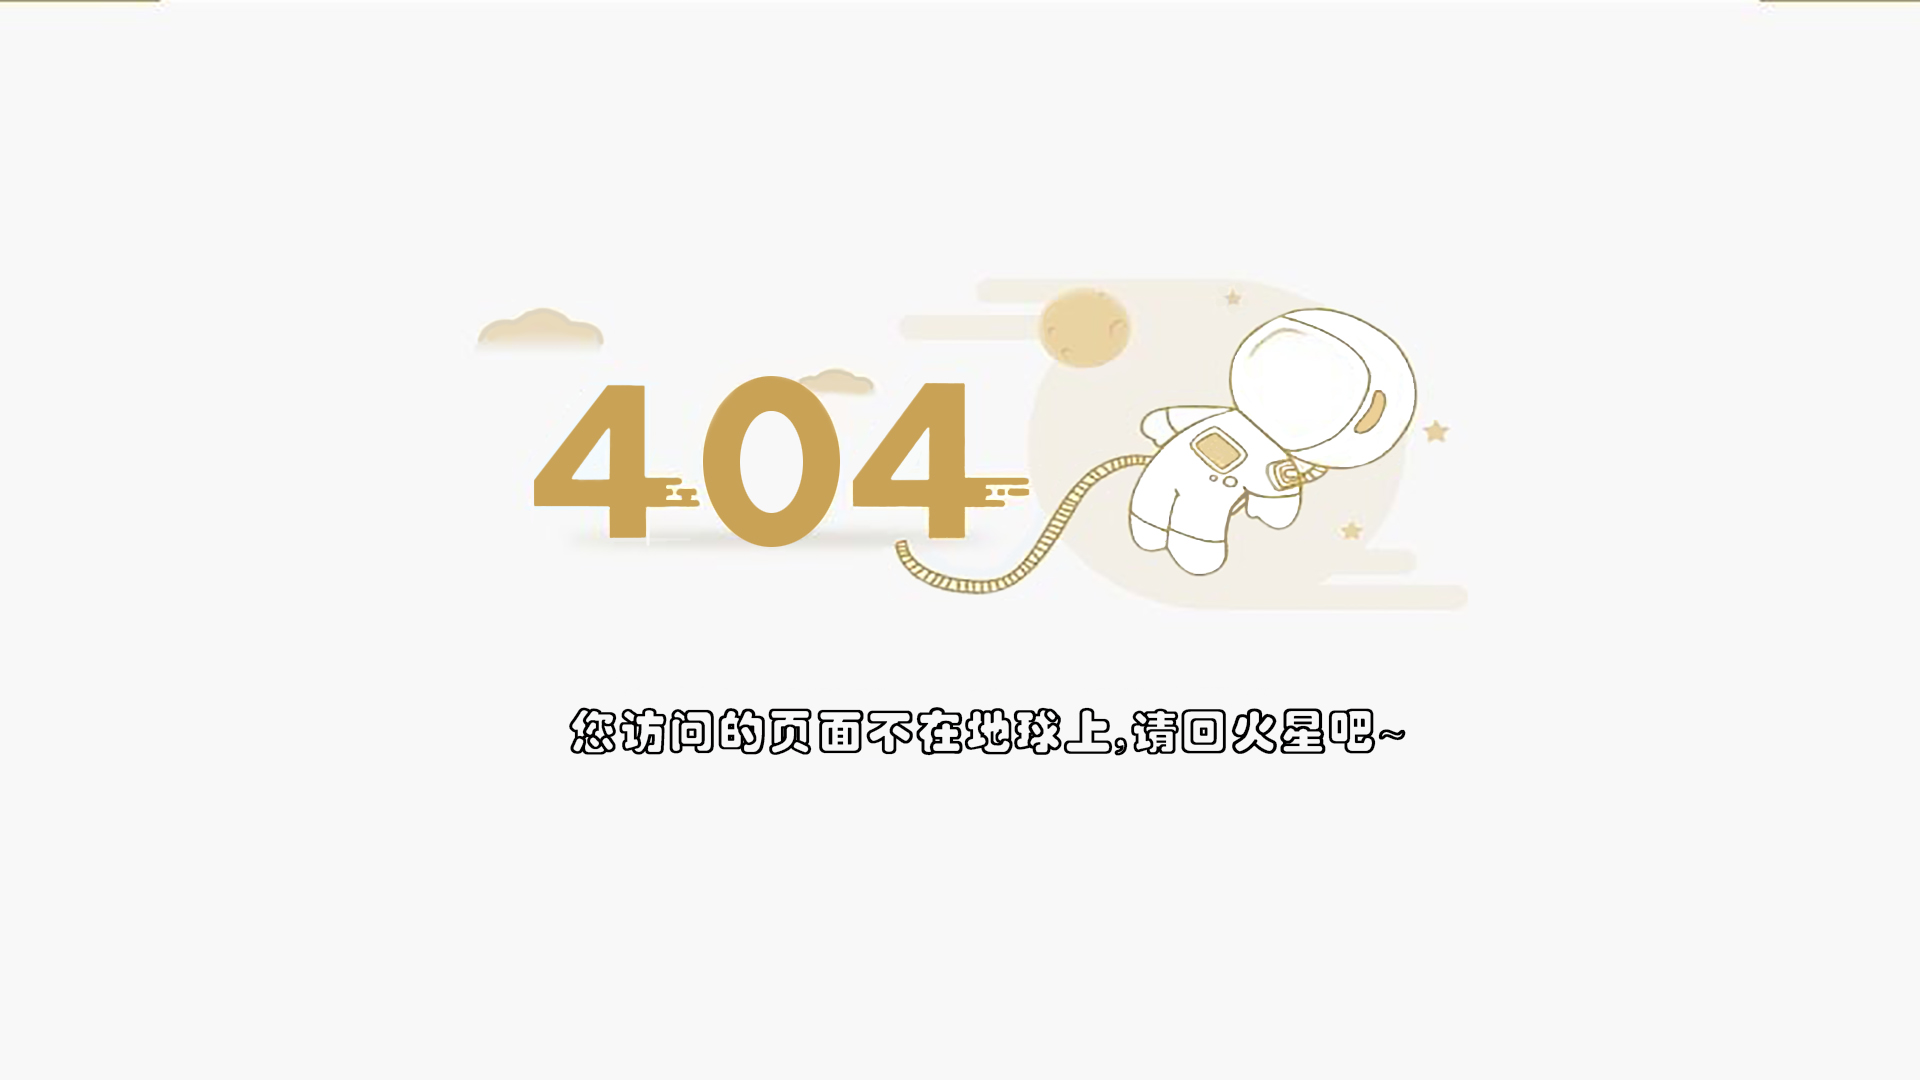
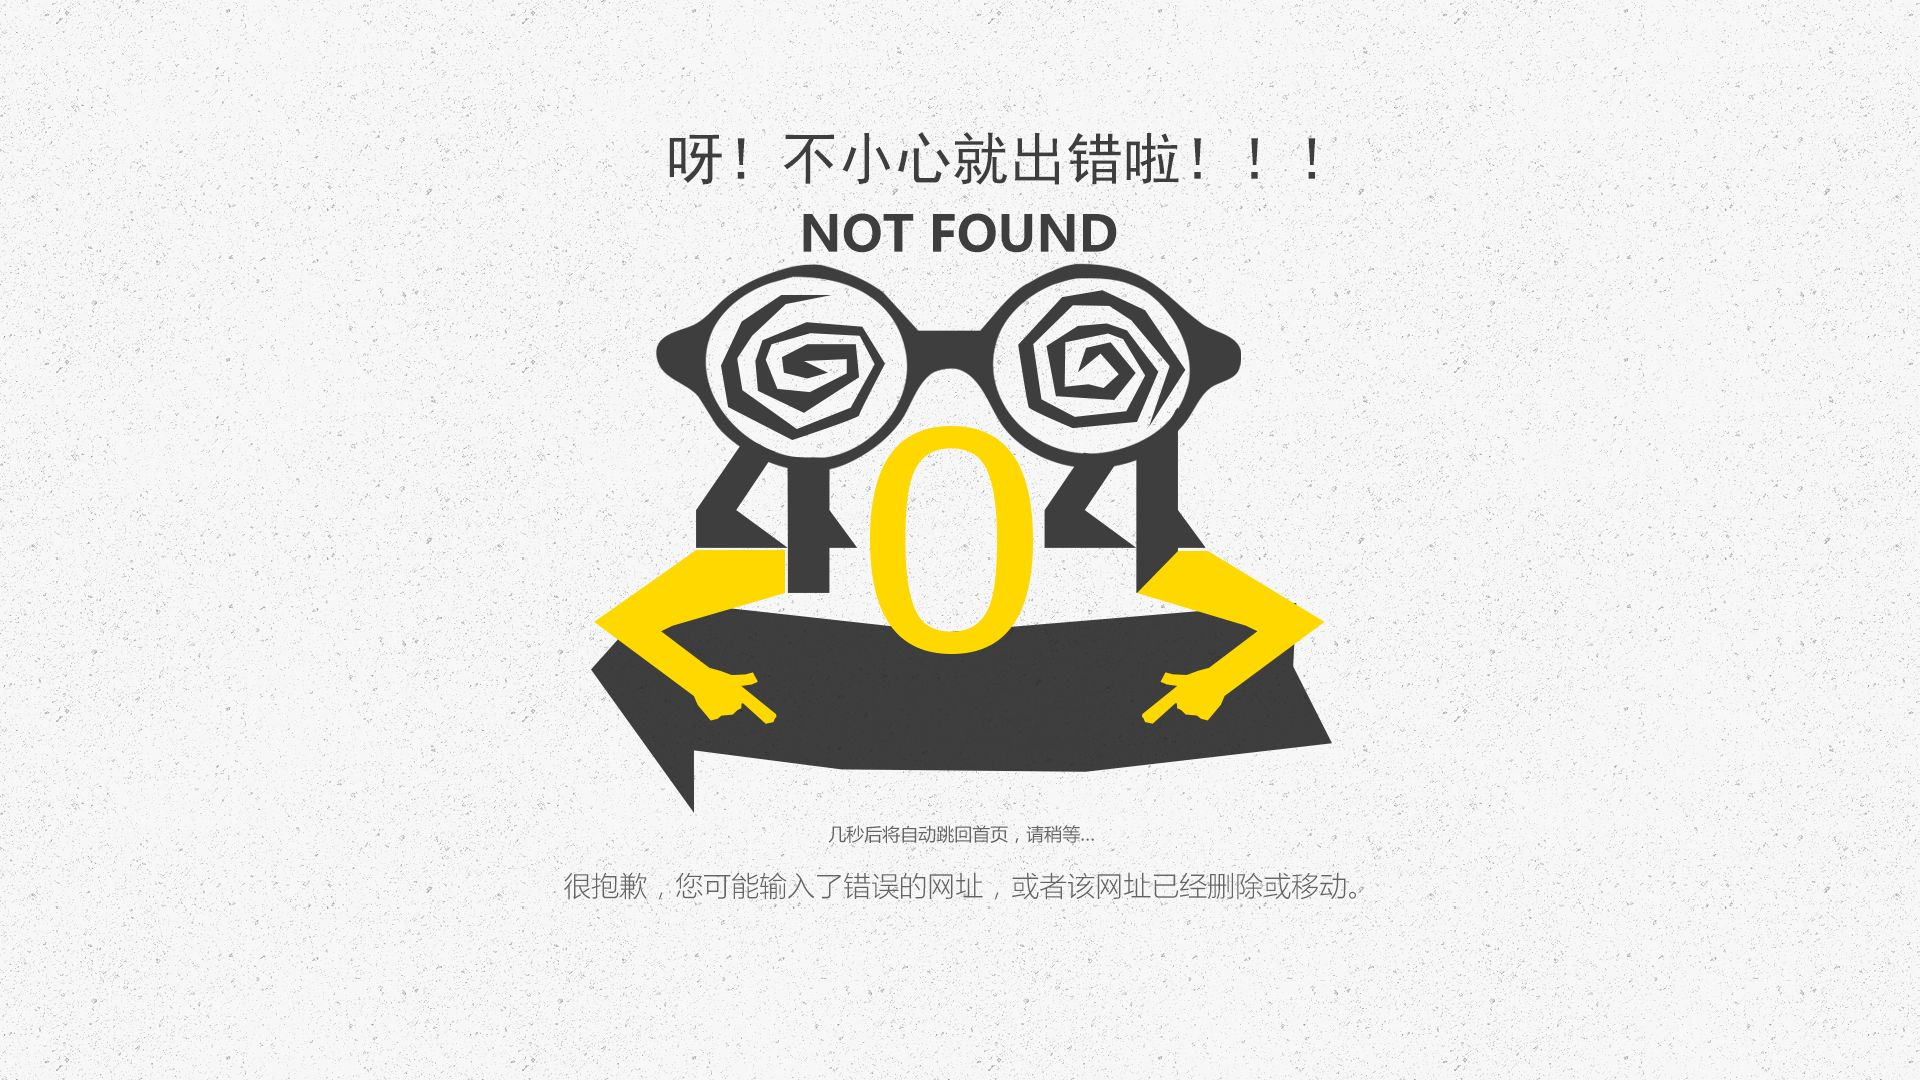
1.修改内容发布页面的SQL字段 2.修改PC404页面的显示效果

diff --git a/PC/pc404.html b/PC/pc404.html
@@ -17,14 +17,15 @@
         }
         a{
             position:absolute;
-            margin-left:49%;
-            top:80%;
-            font-size: 20px;
-            color: #ff8331;
+            margin-left:43%;
+            top:65%;
+            font-size: 30px;
+            color: #ffffff;
         }
         a:hover{
             cursor:pointer;
             text-decoration:none;
+            color: #ff3021;
         }
     </style>
 </head>

diff --git a/MaterialsContent.php b/MaterialsContent.php
@@ -21,7 +21,7 @@ mysqli_query($conn,"set names utf8");
 //迭代出需要点击的内容
 function select(){
     global $conn;
-    $sql = "select aid,title,cid,content,adddate from yiqi_article where cid=1";
+    $sql = "select aid,title,cid,content,adddate from yiqi_article where cid=1 order by aid desc;";
     $zhixing = mysqli_query($conn,$sql);
     $str = "";
     while($rows = mysqli_fetch_row($zhixing)){

diff --git a/selectIndexContent.php b/selectIndexContent.php
@@ -21,7 +21,7 @@ mysqli_query($conn,"set names utf8");
 //迭代出需要点击的内容
 function select(){
     global $conn;
-    $sql = "select aid,title,cid,content,adddate from yiqi_article where cid=2";
+    $sql = "select aid,title,cid,content,adddate from yiqi_article where cid=2 order by aid desc;";
     $zhixing = mysqli_query($conn,$sql);
     $str = "";
     while($rows = mysqli_fetch_row($zhixing)){
